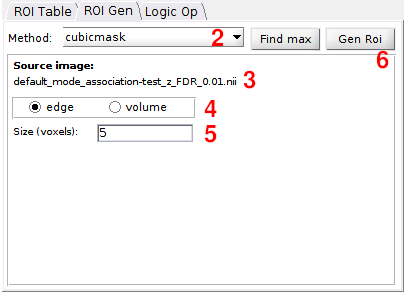
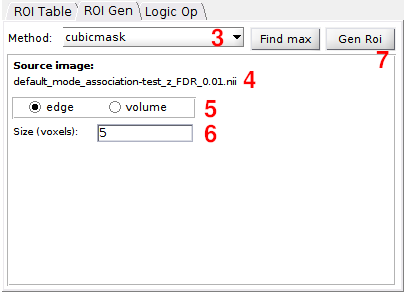
update creation page

diff --git a/docs/roi_creation.md b/docs/roi_creation.md
@@ -49,11 +49,14 @@ Spheremask creates a spherical mask centered on *curpos* with the same dimension
 ![Selecting the source image](img/roigen/spheremask.png)
 
 1. Select the source image by clicking its name in the [table of loaded images](#selecting-the-source-image);
-2. Choose "spheremask" from the "Method" dropdown menu.
-3. Verify that the selected image is displayed in the source image field.
-4. Determine whether the ROI size will be defined by the radius (number of voxels in the radius) or volume (total number of voxels within the ROI). Please note that when selecting the ROI size based on volume, the spheremask algorithm will attempt to create an ROI that closely resembles a sphere, although it may be less "spherical-shaped" compared to ROIs generated using the radius method.
-5. Enter the desired number of voxels to define the ROI size in the editable textbox "Size (voxels)".
-6. Click the "Gen ROI" button to generate the ROI. You can review and edit the ROI properties in the "ROI table" tab, and modify the visualization properties by selecting the "under-construction" option in the table of loaded images and adjusting its visualization settings.
+2. You can choose the coordinates of the sphere center in one of the following ways:
+    - Click on the image at the desired position.
+    - Enter the coordinates in the editable textbox labeled "Voxel Nat" coordinates or "Scanner" coordinates.
+    - Click the "Find max" button to search for the voxel with the highest intensity in the selected region.
+4. Verify that the selected image is displayed in the source image field.
+5. Determine whether the ROI size will be defined by the radius (number of voxels in the radius) or volume (total number of voxels within the ROI). Please note that when selecting the ROI size based on volume, the spheremask algorithm will attempt to create an ROI that closely resembles a sphere, although it may be less "spherical-shaped" compared to ROIs generated using the radius method.
+6. Enter the desired number of voxels to define the ROI size in the editable textbox "Size (voxels)".
+7. Click the "Gen ROI" button to generate the ROI. You can review and edit the ROI properties in the "ROI table" tab, and modify the visualization properties by selecting the "under-construction" option in the table of loaded images and adjusting its visualization settings.
 
 
 Cubicmask
@@ -80,11 +83,15 @@ Cubicmask creates a cubic mask centered on *curpos* with the same dimension as *
 ![Selecting the source image](img/roigen/cubicmask.png)
 
 1. Select the source image by clicking its name in the [table of loaded images](#selecting-the-source-image);
-2. Choose "cubicmask" from the "Method" dropdown menu.
-3. Verify that the selected image is displayed in the source image field.
-4. Determine whether the ROI size will be defined by the number of voxels in the cube edge or by the cube volume, i.e., the number of voxels within the ROI. Please note that when selecting the ROI size based on volume, the cubicmask algorithm will attempt to create an ROI that closely resembles a cube, although it may be less perfectly "cubic-shaped" compared to ROIs generated using the edge size method.
-5. Enter the desired number of voxels to define the ROI size in the editable textbox "Size (voxels)".
-6. Click the "Gen ROI" button to generate the ROI. You can review and edit the ROI properties in the "ROI table" tab, and modify the visualization properties by selecting the "under-construction" option in the table of loaded images and adjusting its visualization settings.
+2. You can choose the coordinates of the cube center in one of the following ways:
+    - Click on the image at the desired position.
+    - Enter the coordinates in the editable textbox labeled "Voxel Nat" coordinates or "Scanner" coordinates.
+    - Click the "Find max" button to search for the voxel with the highest intensity in the selected region.
+3. Choose "cubicmask" from the "Method" dropdown menu.
+4. Verify that the selected image is displayed in the source image field.
+5. Determine whether the ROI size will be defined by the number of voxels in the cube edge or by the cube volume, i.e., the number of voxels within the ROI. Please note that when selecting the ROI size based on volume, the cubicmask algorithm will attempt to create an ROI that closely resembles a cube, although it may be less perfectly "cubic-shaped" compared to ROIs generated using the edge size method.
+6. Enter the desired number of voxels to define the ROI size in the editable textbox "Size (voxels)".
+7. Click the "Gen ROI" button to generate the ROI. You can review and edit the ROI properties in the "ROI table" tab, and modify the visualization properties by selecting the "under-construction" option in the table of loaded images and adjusting its visualization settings.
 
 Maxkmask
 --------
@@ -149,14 +156,18 @@ Regiongrowingmask is a region growing algorithm that groups neighboring voxels f
 ![Selecting the source image](img/roigen/regiongrowing.png)
 
 1. Select the source image by clicking its name in the [table of loaded images](#selecting-the-source-image);
-2. Choose "regiongrowingmask" from the "Method" dropdown menu.
-3. Verify that the selected image is displayed in the source image field.
-4. From the "Select the growing method" dropdown menu, choose region growing mode (*grwmode*): 'ascending', 'descending', or 'similarity'.
-5. Select "Seed diff" from the "Select the threshold method" dropdown menu and enter the *diffratio* value. This value determines the maximum intensity difference between the seed and its neighbors, and it is used to stop the ROI growth. Alternatively, choose "None" from the dropdown menu if you do not want to use a *diffratio* threshold method.
-6. Enter the desired number of voxels to define the ROI size in the editable textbox "Enter the number of voxels". If you want the ROI growth to stop based solely on the diffratio value, tick the checkbox "Auto".
-7. Determine the *premask* method to constrain the region to be analyzed (Sphere or Mask image). If you selected "Sphere", enter the number of voxels for the premask radius. The center of the spherical premask is determined by the cursor position (curpos).
-8. Alternatively, if you selected "Mask image" as *premask* method, choose the image to be used as the mask from the "Mask image" dropdown menu. The images listed in the "Mask image" dropdown menu are the ones displayed in the [table of loaded images](#selecting-the-source-image).
-8. Click the "Gen ROI" button to generate the ROI. You can review and edit the ROI properties in the "ROI table" tab, and modify the visualization properties by selecting the "under-construction" option in the table of loaded images and adjusting its visualization settings.
+2. You can choose the coordinates of the seed in one of the following ways:
+    - Click on the image at the desired position.
+    - Enter the coordinates in the editable textbox labeled "Voxel Nat" coordinates or "Scanner" coordinates.
+    - Click the "Find max" button to search for the voxel with the highest intensity in the selected region.
+3. Choose "regiongrowingmask" from the "Method" dropdown menu.
+4. Verify that the selected image is displayed in the source image field.
+5. From the "Select the growing method" dropdown menu, choose region growing mode (*grwmode*): 'ascending', 'descending', or 'similarity'.
+6. Select "Seed diff" from the "Select the threshold method" dropdown menu and enter the *diffratio* value. This value determines the maximum intensity difference between the seed and its neighbors, and it is used to stop the ROI growth. Alternatively, choose "None" from the dropdown menu if you do not want to use a *diffratio* threshold method.
+7. Enter the desired number of voxels to define the ROI size in the editable textbox "Enter the number of voxels". If you want the ROI growth to stop based solely on the diffratio value, tick the checkbox "Auto".
+8. Determine the *premask* method to constrain the region to be analyzed (Sphere or Mask image). If you selected "Sphere", enter the number of voxels for the premask radius. The center of the spherical premask is determined by the cursor position (curpos).
+9. Alternatively, if you selected "Mask image" as *premask* method, choose the image to be used as the mask from the "Mask image" dropdown menu. The images listed in the "Mask image" dropdown menu are the ones displayed in the [table of loaded images](#selecting-the-source-image).
+10. Click the "Gen ROI" button to generate the ROI. You can review and edit the ROI properties in the "ROI table" tab, and modify the visualization properties by selecting the "under-construction" option in the table of loaded images and adjusting its visualization settings.
 
 
 Img2mask
